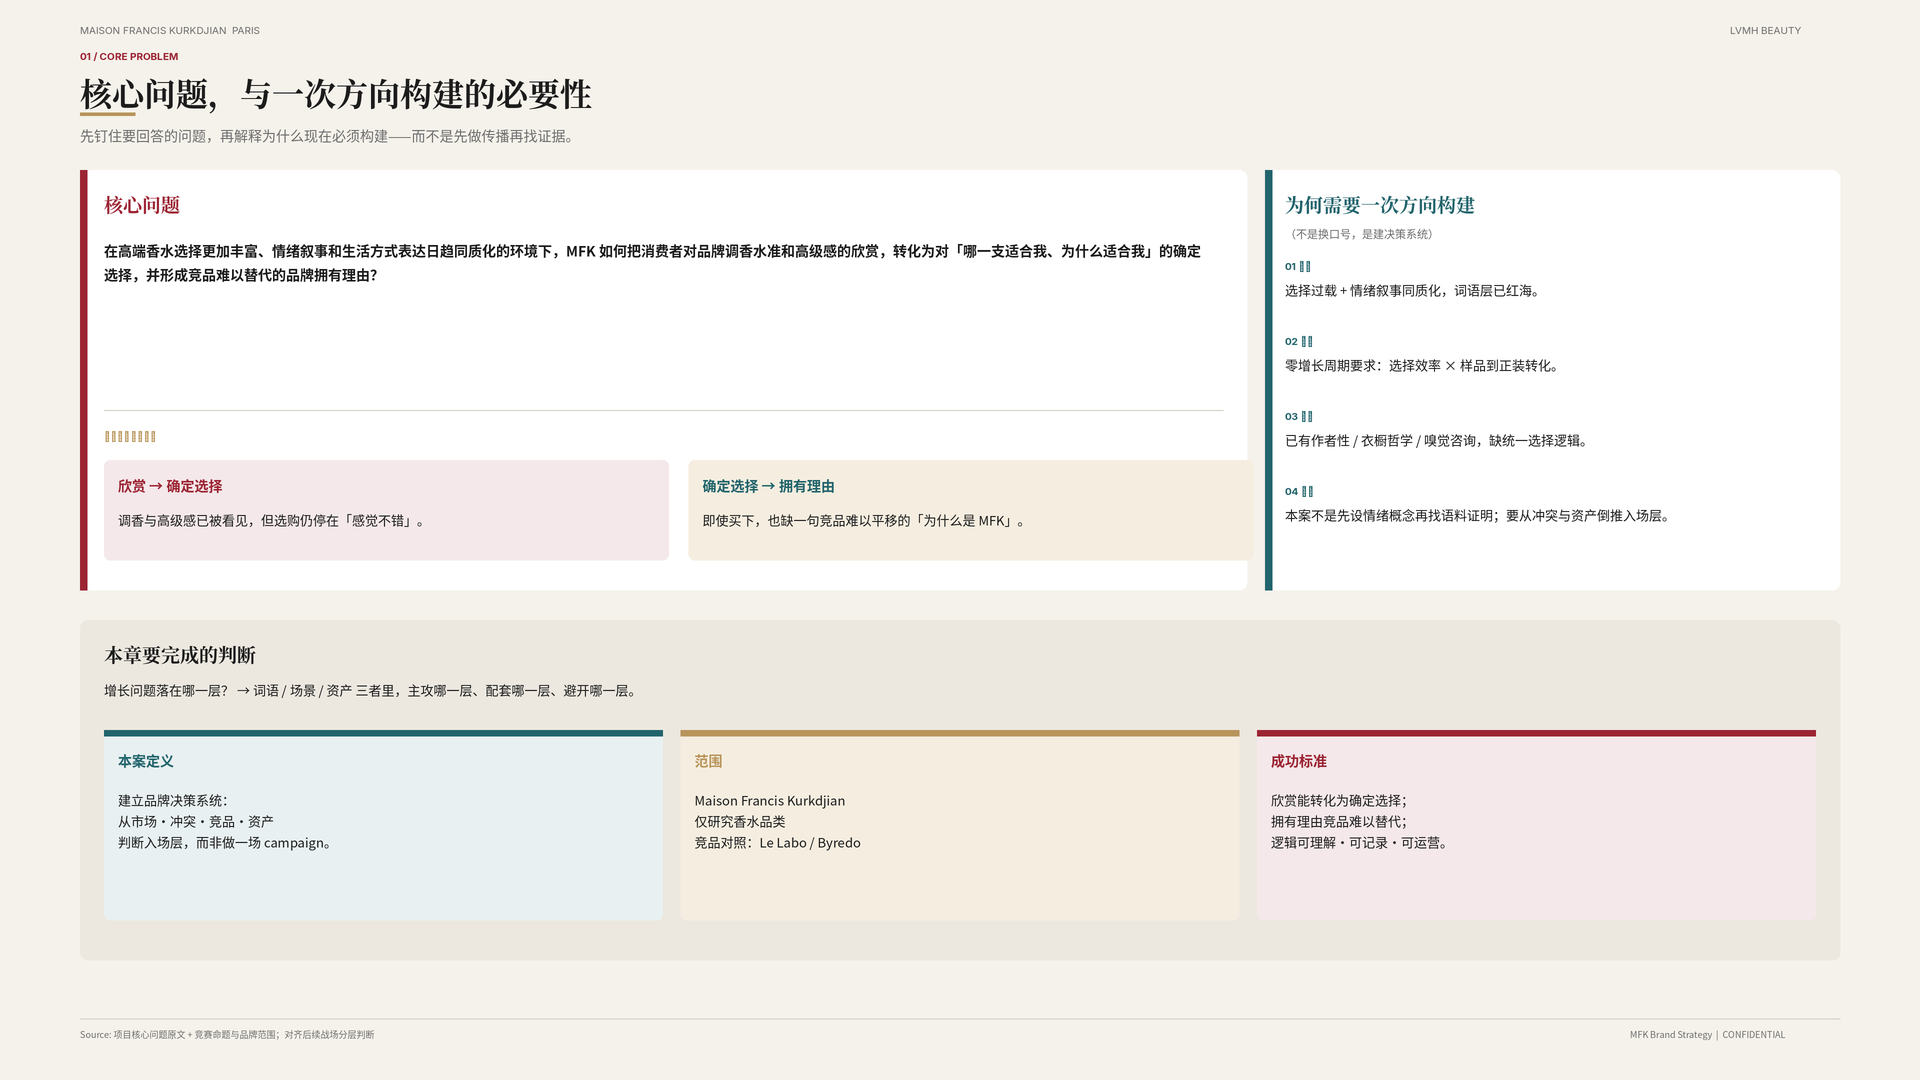
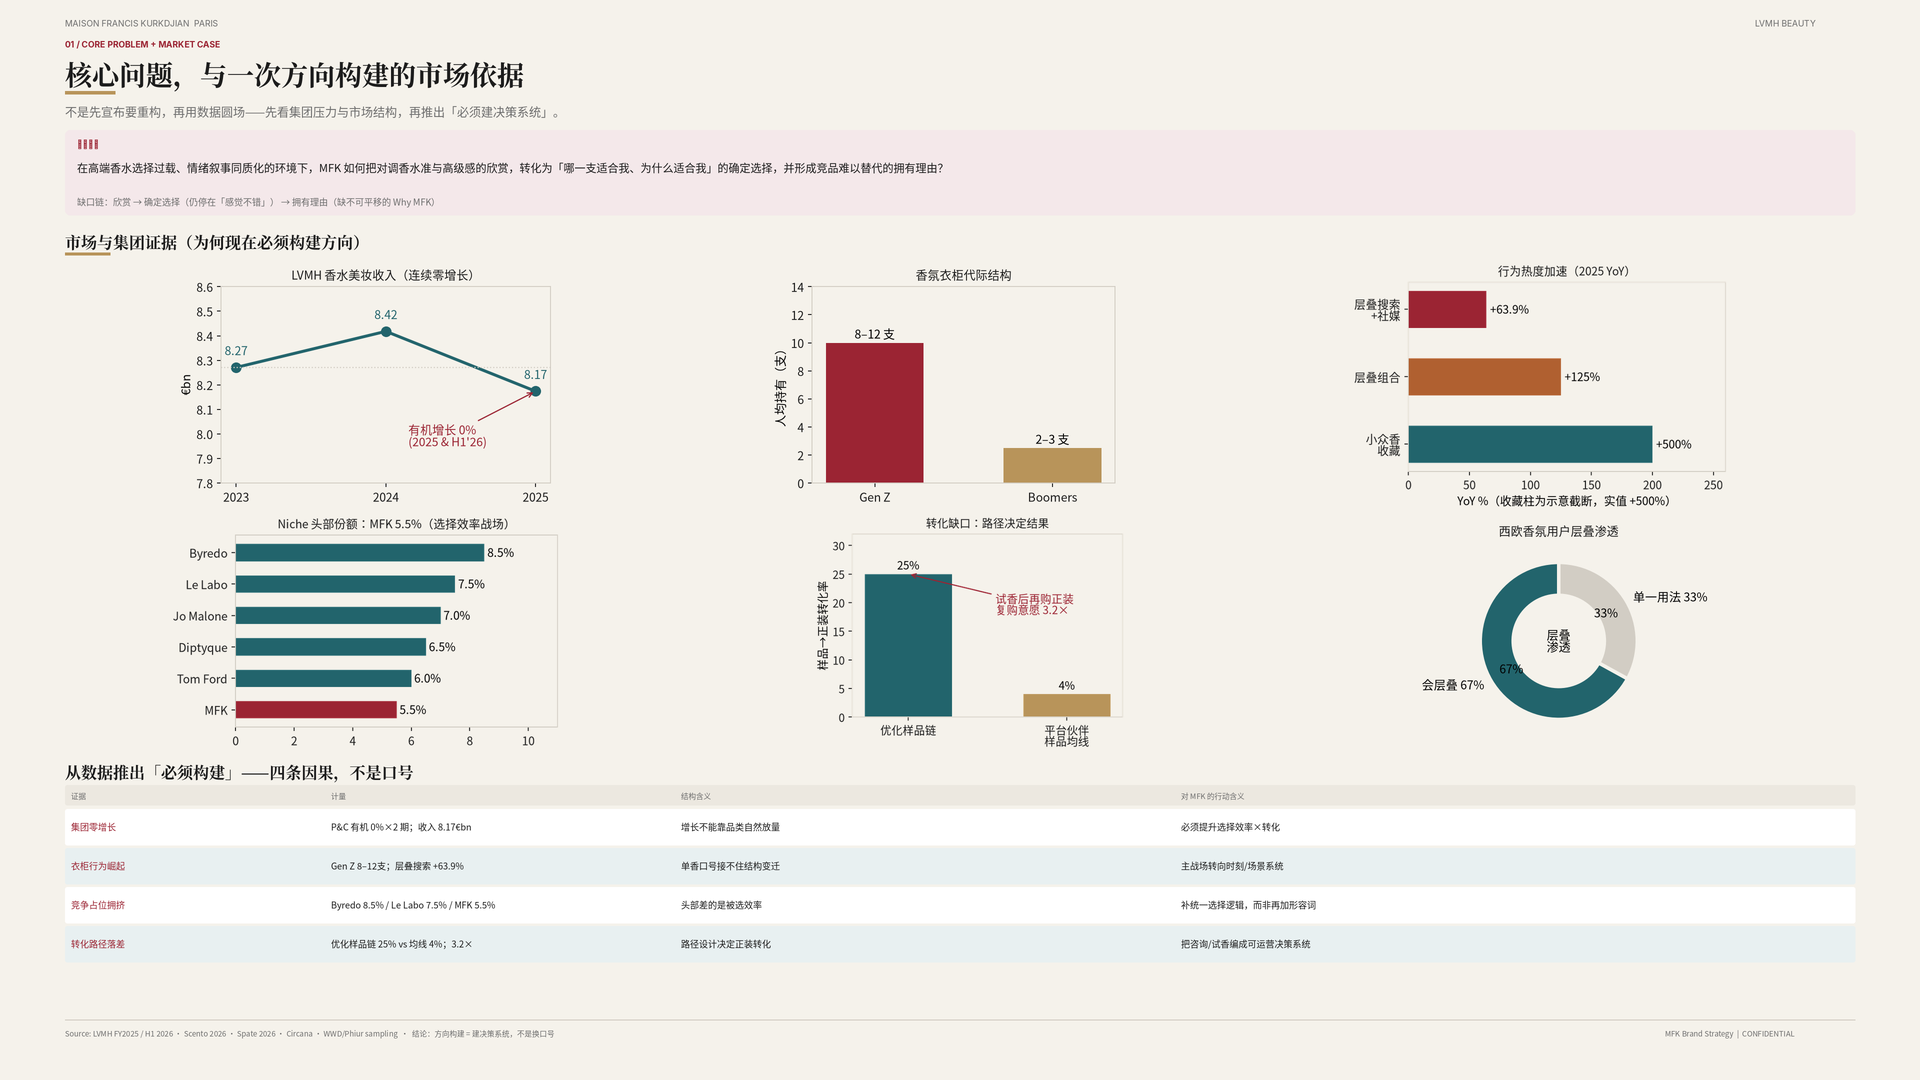
Back Part 01 direction case with market and group data.
Replace qualitative why-rebuild bullets with LVMH zero-growth,
wardrobe behavior, niche share, layering, and sample-conversion
charts, plus a data-to-action causal table.

diff --git a/mfk-slides/src/gen_p01_market_case.py b/mfk-slides/src/gen_p01_market_case.py
@@ -1,0 +1,332 @@
+#!/usr/bin/env python3
+"""Part 01 core problem — data-backed market case for direction building."""
+from pathlib import Path
+import io
+import numpy as np
+import matplotlib.pyplot as plt
+from matplotlib import font_manager as fm
+from PIL import Image, ImageDraw, ImageFont
+
+OUT = Path("/workspace/mfk-slides")
+ART = Path("/opt/cursor/artifacts")
+W, H = 3840, 2160
+MX = 130
+GAP = 28
+FY = 2055
+
+CREAM = (245, 242, 235)
+INK = (28, 28, 28)
+MUTED = (110, 110, 110)
+RED = (155, 36, 51)
+TEAL = (34, 100, 108)
+GOLD = (184, 148, 90)
+LINE = (210, 205, 196)
+WHITE = (255, 255, 255)
+SOFT = (236, 232, 224)
+SOFT_T = (232, 240, 241)
+SOFT_R = (244, 232, 234)
+SOFT_G = (245, 238, 224)
+
+_CJK = "/usr/share/fonts/opentype/noto/NotoSansCJK-Regular.ttc"
+fm.fontManager.addfont(_CJK)
+FP = fm.FontProperties(fname=_CJK)
+plt.rcParams["font.family"] = "sans-serif"
+plt.rcParams["font.sans-serif"] = [fm.FontProperties(fname=_CJK).get_name(), "DejaVu Sans"]
+plt.rcParams["axes.unicode_minus"] = False
+
+
+def fonts():
+    s = "/usr/share/fonts/opentype/noto/NotoSerifCJK-Bold.ttc"
+    n = "/usr/share/fonts/opentype/noto/NotoSansCJK-Regular.ttc"
+    b = "/usr/share/fonts/opentype/noto/NotoSansCJK-Bold.ttc"
+    i = "/usr/share/fonts/truetype/inter/Inter-Regular.ttf"
+    ib = "/usr/share/fonts/truetype/inter/Inter-Bold.ttf"
+    return {
+        "title": ImageFont.truetype(s, 54, index=2),
+        "h2": ImageFont.truetype(s, 32, index=2),
+        "h3": ImageFont.truetype(b, 24, index=2),
+        "body": ImageFont.truetype(n, 22, index=2),
+        "small": ImageFont.truetype(n, 18, index=2),
+        "tiny": ImageFont.truetype(n, 15, index=2),
+        "sub": ImageFont.truetype(n, 24, index=2),
+        "label": ImageFont.truetype(ib, 17),
+        "num": ImageFont.truetype(ib, 40),
+        "num_sm": ImageFont.truetype(ib, 30),
+        "brand": ImageFont.truetype(i, 17),
+    }
+
+
+F = fonts()
+
+
+def fig_to_pil(fig, dpi=170):
+    for ax in fig.get_axes():
+        for lab in ax.get_xticklabels() + ax.get_yticklabels():
+            lab.set_fontproperties(FP)
+        if ax.xaxis.label.get_text():
+            ax.xaxis.label.set_fontproperties(FP)
+        if ax.yaxis.label.get_text():
+            ax.yaxis.label.set_fontproperties(FP)
+        if ax.title.get_text():
+            ax.title.set_fontproperties(FP)
+        for t in ax.texts:
+            t.set_fontproperties(FP)
+        leg = ax.get_legend()
+        if leg:
+            for t in leg.get_texts():
+                t.set_fontproperties(FP)
+    buf = io.BytesIO()
+    fig.savefig(buf, format="png", dpi=dpi, transparent=True, bbox_inches="tight", pad_inches=0.04)
+    plt.close(fig)
+    buf.seek(0)
+    return Image.open(buf).convert("RGBA")
+
+
+def style_ax(ax, title=None):
+    ax.set_facecolor("#F5F2EB")
+    for sp in ax.spines.values():
+        sp.set_color("#D2CDC4")
+    ax.tick_params(colors="#1C1C1C", labelsize=8)
+    if title:
+        ax.set_title(title, fontsize=10, color="#1C1C1C", pad=6, fontweight="bold", fontproperties=FP)
+
+
+def paste(img, pil_chart, box):
+    x0, y0, x1, y1 = box
+    bw, bh = x1 - x0, y1 - y0
+    ch = pil_chart.copy()
+    ch.thumbnail((bw, bh), Image.Resampling.LANCZOS)
+    img.paste(ch, (x0 + (bw - ch.width) // 2, y0 + (bh - ch.height) // 2), ch)
+
+
+def rr(d, box, fill, r=12):
+    d.rounded_rectangle(box, radius=r, fill=fill)
+
+
+def wrap(d, text, xy, font, fill, max_w, lh=30):
+    x, y = xy
+    line = ""
+    for ch in text:
+        test = line + ch
+        if d.textlength(test, font=font) <= max_w:
+            line = test
+        else:
+            d.text((x, y), line, font=font, fill=fill)
+            y += lh
+            line = ch
+    if line:
+        d.text((x, y), line, font=font, fill=fill)
+    return y
+
+
+def save(img, name):
+    img.save(OUT / name, "PNG")
+    img.resize((1920, 1080), Image.Resampling.LANCZOS).save(
+        OUT / name.replace(".png", "_1920.png"), "PNG"
+    )
+    img.save(ART / name, "PNG")
+    print("saved", name)
+
+
+# ── charts ────────────────────────────────────────────────
+
+def chart_group_pc():
+    """Perfumes & Cosmetics revenue + organic 0% annotation."""
+    fig, ax = plt.subplots(figsize=(5.0, 3.0))
+    years = ["2023", "2024", "2025"]
+    rev = [8.271, 8.418, 8.174]
+    ax.plot(years, rev, color="#22646C", marker="o", linewidth=2.5, markersize=8)
+    for x, y in zip(years, rev):
+        ax.text(x, y + 0.05, f"{y:.2f}", ha="center", fontsize=8, fontweight="bold", color="#22646C")
+    ax.axhline(8.271, color="#D2CDC4", linestyle=":", linewidth=1)
+    ax.set_ylabel("€bn")
+    ax.set_ylim(7.8, 8.6)
+    # annotate organic 0%
+    ax.annotate("有机增长 0%\n(2025 & H1'26)", xy=(2, 8.174), xytext=(1.15, 7.95),
+                fontsize=8, color="#9B2433", fontproperties=FP,
+                arrowprops=dict(arrowstyle="->", color="#9B2433"))
+    style_ax(ax, "LVMH 香水美妆收入（连续零增长）")
+    fig.patch.set_alpha(0)
+    return fig_to_pil(fig)
+
+
+def chart_wardrobe_shift():
+    fig, ax = plt.subplots(figsize=(4.6, 3.0))
+    labels = ["Gen Z", "Boomers"]
+    vals = [10, 2.5]  # midpoint of 8-12 and 2-3
+    colors = ["#9B2433", "#B8945A"]
+    bars = ax.bar(labels, vals, color=colors, width=0.55)
+    for b, v, t in zip(bars, vals, ["8–12 支", "2–3 支"]):
+        ax.text(b.get_x() + b.get_width() / 2, v + 0.3, t, ha="center", fontsize=8, fontweight="bold")
+    ax.set_ylabel("人均持有（支）")
+    ax.set_ylim(0, 14)
+    style_ax(ax, "香氛衣柜代际结构")
+    fig.patch.set_alpha(0)
+    return fig_to_pil(fig)
+
+
+def chart_search_heat():
+    fig, ax = plt.subplots(figsize=(5.0, 3.0))
+    labels = ["层叠搜索\n+社媒", "层叠组合", "小众香\n收藏"]
+    vals = [63.9, 125, 200]  # cap visual for 500 with annotation
+    real = [63.9, 125, 500]
+    colors = ["#9B2433", "#B06030", "#22646C"]
+    bars = ax.barh(labels[::-1], vals[::-1], color=colors[::-1], height=0.55)
+    for b, r in zip(bars, real[::-1]):
+        ax.text(b.get_width() + 3, b.get_y() + b.get_height() / 2, f"+{r:g}%",
+                va="center", fontsize=8, fontweight="bold")
+    ax.set_xlim(0, 260)
+    ax.set_xlabel("YoY %（收藏柱为示意截断，实值 +500%）")
+    style_ax(ax, "行为热度加速（2025 YoY）")
+    fig.patch.set_alpha(0)
+    return fig_to_pil(fig)
+
+
+def chart_share():
+    fig, ax = plt.subplots(figsize=(5.0, 3.0))
+    brands = ["Byredo", "Le Labo", "Jo Malone", "Diptyque", "Tom Ford", "MFK"]
+    share = [8.5, 7.5, 7.0, 6.5, 6.0, 5.5]
+    colors = ["#22646C"] * 5 + ["#9B2433"]
+    y = np.arange(len(brands))
+    ax.barh(y, share, color=colors, height=0.55)
+    ax.set_yticks(y)
+    ax.set_yticklabels(brands)
+    for yi, v in zip(y, share):
+        ax.text(v + 0.1, yi, f"{v}%", va="center", fontsize=8, fontweight="bold")
+    ax.set_xlim(0, 11)
+    ax.invert_yaxis()
+    style_ax(ax, "Niche 头部份额：MFK 5.5%（选择效率战场）")
+    fig.patch.set_alpha(0)
+    return fig_to_pil(fig)
+
+
+def chart_conversion():
+    fig, ax = plt.subplots(figsize=(4.4, 3.0))
+    labels = ["优化样品链", "平台伙伴\n样品均线"]
+    vals = [25, 4]
+    colors = ["#22646C", "#B8945A"]
+    bars = ax.bar(labels, vals, color=colors, width=0.55)
+    for b, v in zip(bars, vals):
+        ax.text(b.get_x() + b.get_width() / 2, v + 0.8, f"{v}%", ha="center", fontsize=10, fontweight="bold")
+    ax.set_ylabel("样品→正装转化率")
+    ax.set_ylim(0, 32)
+    ax.annotate("试香后再购正装\n复购意愿 3.2×", xy=(0, 25), xytext=(0.55, 18),
+                fontsize=8, color="#9B2433", fontproperties=FP,
+                arrowprops=dict(arrowstyle="->", color="#9B2433"))
+    style_ax(ax, "转化缺口：路径决定结果")
+    fig.patch.set_alpha(0)
+    return fig_to_pil(fig)
+
+
+def chart_layer_donut():
+    fig, ax = plt.subplots(figsize=(3.4, 3.0))
+    ax.pie(
+        [67, 33],
+        labels=["会层叠 67%", "单一用法 33%"],
+        colors=["#22646C", "#D2CDC4"],
+        autopct="%1.0f%%",
+        startangle=90,
+        pctdistance=0.7,
+        wedgeprops=dict(width=0.42, edgecolor="#F5F2EB", linewidth=3),
+    )
+    ax.text(0, 0, "层叠\n渗透", ha="center", va="center", fontsize=10, fontweight="bold")
+    style_ax(ax, "西欧香氛用户层叠渗透")
+    fig.patch.set_alpha(0)
+    return fig_to_pil(fig)
+
+
+def build():
+    img = Image.new("RGB", (W, H), CREAM)
+    d = ImageDraw.Draw(img)
+
+    # header
+    d.text((MX, 36), "MAISON FRANCIS KURKDJIAN  PARIS", font=F["brand"], fill=MUTED)
+    d.text((W - MX - 200, 36), "LVMH BEAUTY", font=F["brand"], fill=MUTED)
+    d.text((MX, 78), "01 / CORE PROBLEM + MARKET CASE", font=F["label"], fill=RED)
+    d.text((MX, 108), "核心问题，与一次方向构建的市场依据", font=F["title"], fill=INK)
+    d.rectangle([MX, 182, MX + 100, 188], fill=GOLD)
+    d.text(
+        (MX, 205),
+        "不是先宣布要重构，再用数据圆场——先看集团压力与市场结构，再推出「必须建决策系统」。",
+        font=F["sub"],
+        fill=MUTED,
+    )
+
+    # Core problem compact
+    rr(d, [MX, 260, W - MX, 430], SOFT_R, 10)
+    d.text((MX + 24, 278), "核心问题", font=F["label"], fill=RED)
+    wrap(
+        d,
+        "在高端香水选择过载、情绪叙事同质化的环境下，MFK 如何把对调香水准与高级感的欣赏，"
+        "转化为「哪一支适合我、为什么适合我」的确定选择，并形成竞品难以替代的拥有理由？",
+        (MX + 24, 318),
+        F["body"],
+        INK,
+        W - 2 * MX - 60,
+        34,
+    )
+    d.text(
+        (MX + 24, 390),
+        "缺口链：欣赏 → 确定选择（仍停在「感觉不错」） → 拥有理由（缺不可平移的 Why MFK）",
+        font=F["small"],
+        fill=MUTED,
+    )
+
+    # Section: market evidence
+    d.text((MX, 460), "市场与集团证据（为何现在必须构建方向）", font=F["h2"], fill=INK)
+    d.rectangle([MX, 505, MX + 90, 510], fill=GOLD)
+
+    # 6 charts in 2×3
+    paste(img, chart_group_pc(), (MX, 525, MX + 1200, 1020))
+    paste(img, chart_wardrobe_shift(), (MX + 1220, 525, MX + 2300, 1020))
+    paste(img, chart_search_heat(), (MX + 2320, 525, W - MX, 1020))
+
+    paste(img, chart_share(), (MX, 1030, MX + 1200, 1500))
+    paste(img, chart_conversion(), (MX + 1220, 1030, MX + 2400, 1500))
+    paste(img, chart_layer_donut(), (MX + 2420, 1030, W - MX, 1500))
+
+    # Data → necessity mapping table
+    d.text((MX, 1520), "从数据推出「必须构建」——四条因果，不是口号", font=F["h2"], fill=INK)
+    headers = ["证据", "计量", "结构含义", "对 MFK 的行动含义"]
+    widths = [520, 700, 1000, 1220]
+    y = 1570
+    rr(d, [MX, y, W - MX, y + 40], SOFT, 4)
+    x = MX + 12
+    for h, w in zip(headers, widths):
+        d.text((x, y + 10), h, font=F["tiny"], fill=MUTED)
+        x += w
+
+    rows = [
+        ("集团零增长", "P&C 有机 0%×2 期；收入 8.17€bn", "增长不能靠品类自然放量", "必须提升选择效率×转化"),
+        ("衣柜行为崛起", "Gen Z 8–12支；层叠搜索 +63.9%", "单香口号接不住结构变迁", "主战场转向时刻/场景系统"),
+        ("竞争占位拥挤", "Byredo 8.5% / Le Labo 7.5% / MFK 5.5%", "头部差的是被选效率", "补统一选择逻辑，而非再加形容词"),
+        ("转化路径落差", "优化样品链 25% vs 均线 4%；3.2×", "路径设计决定正装转化", "把咨询/试香编成可运营决策系统"),
+    ]
+    for i, row in enumerate(rows):
+        yy = 1618 + i * 78
+        bg = WHITE if i % 2 == 0 else SOFT_T
+        rr(d, [MX, yy, W - MX, yy + 72], bg, 4)
+        x = MX + 12
+        for j, (cell, w) in enumerate(zip(row, widths)):
+            col = RED if j == 0 else INK
+            d.text((x, yy + 22), cell, font=F["small"], fill=col)
+            x += w
+
+    # footer conclusion strip - slightly overlapping? check space
+    # rows end ~1618+4*78=1930, tight. Shrink row height or move.
+    # Actually 1618+312=1930, footer at 2055 - OK with thin footer note
+
+    d.line([(MX, FY - 16), (W - MX, FY - 16)], fill=LINE, width=2)
+    d.text(
+        (MX, FY),
+        "Source: LVMH FY2025 / H1 2026 · Scento 2026 · Spate 2026 · Circana · WWD/Phiur sampling  ·  结论：方向构建 = 建决策系统，不是换口号",
+        font=F["tiny"],
+        fill=MUTED,
+    )
+    d.text((W - MX - 380, FY), "MFK Brand Strategy  |  CONFIDENTIAL", font=F["tiny"], fill=MUTED)
+
+    save(img, "mfk_01_core_problem.png")
+
+
+if __name__ == "__main__":
+    build()
